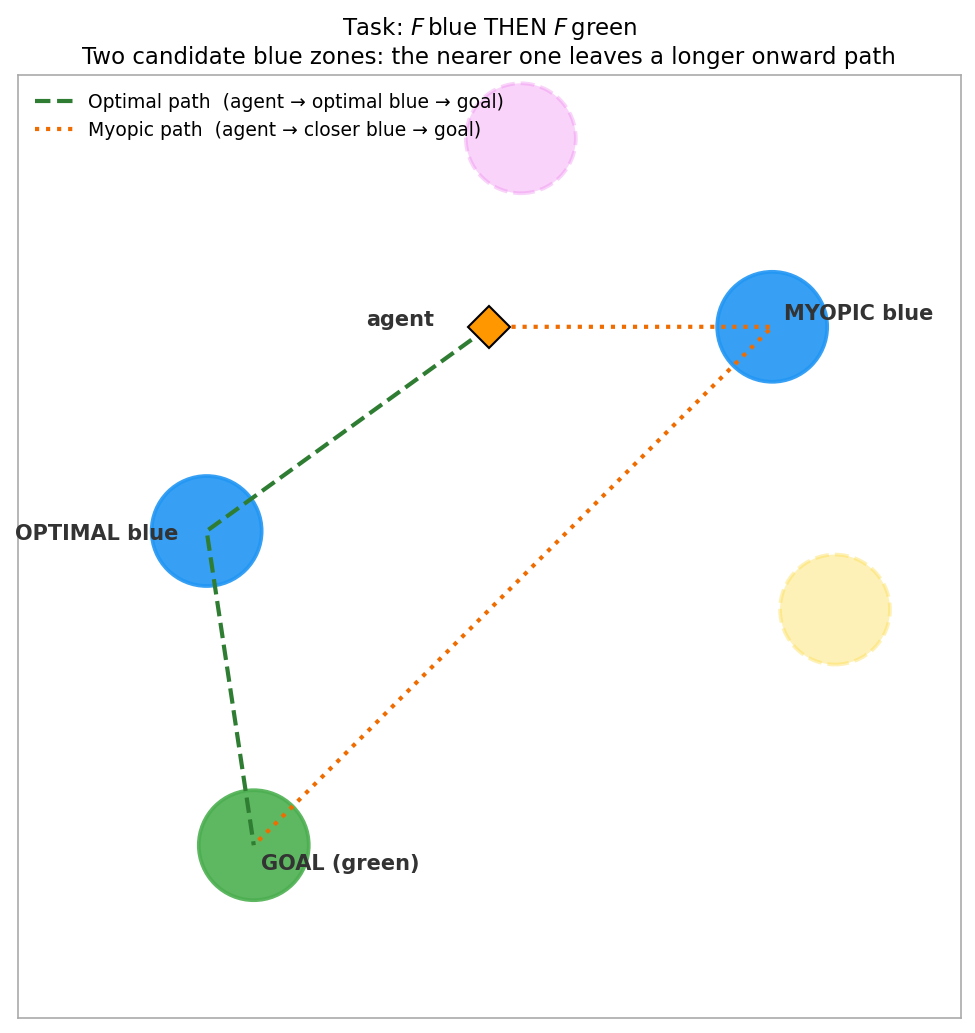
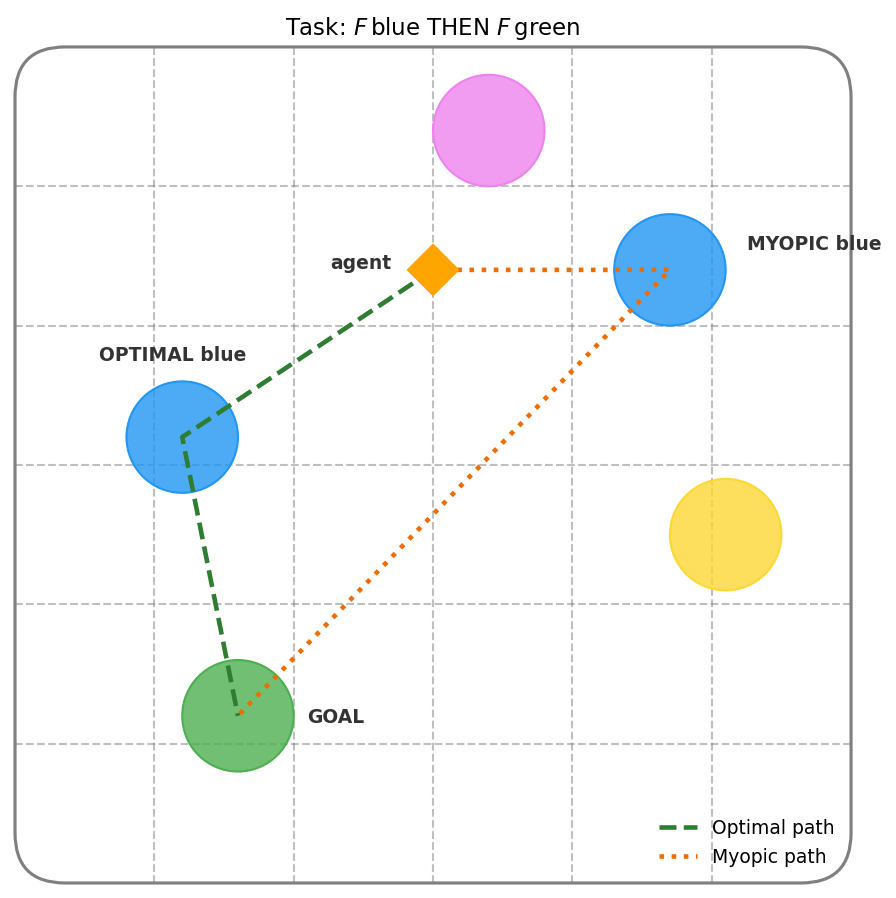
Figure pass: cleaner setup, no overlaps, fewer trajectory panels
- Architecture diagram (fig 00): redrawn with more headroom and
  non-overlapping IN/actor.enc labels.
- Setup figure (fig 01): switched to the repo's own zone-visualisation
  conventions (draw_zones, draw_diamond, setup_axis, FancyAxes), so it
  looks like it came from the same toolset as the trajectory panels in
  fig 02. Same dashed grid, same zone colour palette, same diamond
  marker for the agent.
- Trajectory figures (figs 02, 03): reduced from 4 rows × 5 cols (20
  panels) to 2 rows × 5 cols (10 panels). The argument is the same;
  the figures are easier to scan.
- Removed the now-unused figure_06_value_delta and
  figure_07_planning_incentives from generate_figures.py.

diff --git a/interpretability/blogpost/scripts/generate_figures.py b/interpretability/blogpost/scripts/generate_figures.py
@@ -39,169 +39,68 @@ def save(fig, name):
     print(f"wrote {path}")
 
 
-def figure_06_value_delta():
-    """Value function is blind to second-step difficulty when first is held fixed.
-
-    From LONG_REPORT §3.3 Test C (fresh_baseline):
-        mean ΔV (easy C)  = -0.1850
-        mean ΔV (hard C)  = -0.1875
-        difference         = 0.0026
-    """
-    labels = ["Easy second\nsub-goal", "Hard second\nsub-goal"]
-    delta_v = [-0.1850, -0.1875]
-
-    fig, ax = plt.subplots(figsize=(6, 4.5))
-    bars = ax.bar(labels, delta_v, color=[GREEN, RED],
-                  edgecolor="black", linewidth=0.6, width=0.55)
-    ax.axhline(0, color="black", linewidth=0.5)
-    ax.set_ylabel(r"$\Delta V = V(s, [A, C]) - V(s, [A])$")
-    ax.set_title("Marginal value of the second sub-goal, first step held constant\n"
-                 r"$\Delta V$(easy) $-$ $\Delta V$(hard) $= 0.003$, within noise")
-
-    for b, v in zip(bars, delta_v):
-        ax.text(b.get_x() + b.get_width() / 2, v - 0.006,
-                f"{v:.4f}", ha="center", va="top", fontweight="bold", color="white")
-
-    ax.set_ylim(-0.22, 0.02)
-    fig.tight_layout()
-    save(fig, "06_value_anticipation.png")
-    plt.close(fig)
-
-
-def figure_07_planning_incentives():
-    """Training interventions raise probe R² without changing behaviour.
-
-    From LONG_REPORT §4.2:
-        Optimal choice (controlled-orientation): all ~50%
-        Probe R² (chained distance): 0.315, 0.356, 0.361, 0.405
-        Task success: 93%, 90%, 89%, 75%
-    """
-    variants = ["Baseline", "Aux loss\n(0.2)", "Trans loss\n(0.1)", "Combined"]
-    optimal = [50, 50, 50, 50]
-    probe_r2 = [0.315, 0.356, 0.361, 0.405]
-    task_success = [93, 90, 89, 75]
-
-    fig, axes = plt.subplots(1, 3, figsize=(12.5, 4.2))
-
-    ax = axes[0]
-    bars = ax.bar(variants, optimal, color=RED, edgecolor="black", linewidth=0.6)
-    ax.axhline(50, color="gray", linestyle="--", linewidth=1, label="Chance")
-    ax.set_ylim(0, 100)
-    ax.set_ylabel("Optimal choice (%)")
-    ax.set_title("Planning behaviour\n(on optvar)")
-    ax.legend(loc="upper right", frameon=False)
-    for b, v in zip(bars, optimal):
-        ax.text(b.get_x() + b.get_width() / 2, v + 2, f"~{v}%",
-                ha="center", fontweight="bold")
-
-    ax = axes[1]
-    bars = ax.bar(variants, probe_r2, color=BLUE, edgecolor="black", linewidth=0.6)
-    ax.set_ylim(0, 0.5)
-    ax.set_ylabel(r"Chained-distance probe R$^2$")
-    ax.set_title("Representational content\n(intermediate → goal)")
-    for b, v in zip(bars, probe_r2):
-        ax.text(b.get_x() + b.get_width() / 2, v + 0.012, f"{v:.3f}",
-                ha="center", fontweight="bold")
-
-    ax = axes[2]
-    bars = ax.bar(variants, task_success, color=GREEN, edgecolor="black", linewidth=0.6)
-    ax.set_ylim(0, 105)
-    ax.set_ylabel("Task success (%)")
-    ax.set_title("Task completion")
-    for b, v in zip(bars, task_success):
-        ax.text(b.get_x() + b.get_width() / 2, v + 2, f"{v}%",
-                ha="center", fontweight="bold")
-
-    fig.suptitle("Auxiliary supervision improves the representation, "
-                 "not the behaviour",
-                 y=1.04, fontsize=13)
-    fig.tight_layout()
-    save(fig, "07_planning_incentives.png")
-    plt.close(fig)
-
-
 def figure_01_setup():
-    """Clean setup diagram for the intro.
+    """Setup diagram for §1, using the repo's own zone-visualisation conventions.
 
-    Shows the task `F blue THEN F green` with two candidate blue zones, one
-    myopic (closer to the agent) and one optimal (closer to the goal), plus
-    two distractor zones. Dashed lines indicate the paths a planning and a
-    myopic agent would each take. The figure does *not* claim the agent does
-    either — it illustrates the task structure.
+    Same `draw_zones` / `draw_diamond` / `setup_axis` / `FancyAxes` styling as
+    the optvar trajectory panels in figure 02, so the two figures look like
+    they came from the same set of tools.
     """
-    import matplotlib.patches as mpatches
+    import sys as _sys
+    _sys.path.insert(0, "src")
+    from matplotlib import projections
+    from visualize.zones import draw_zones, draw_diamond, setup_axis, FancyAxes
+    projections.register_projection(FancyAxes)
 
-    fig, ax = plt.subplots(figsize=(7, 7))
-
-    # Positions chosen so the two paths are visually distinct (not collinear)
+    # Positions in the same coord system as fig 02 (xlim/ylim = (-3, 3))
     agent = (0.0, 1.4)
-    myopic_blue = (1.8, 1.4)           # right of agent — very close
-    optimal_blue = (-1.8, 0.1)         # far left, mid — longer first leg
-    goal = (-1.5, -1.9)                # bottom left, close to optimal
-    distractor_yellow = (2.2, -0.4)
-    distractor_magenta = (0.2, 2.6)
+    myopic_blue = (1.7, 1.4)
+    optimal_blue = (-1.8, 0.2)
+    goal = (-1.4, -1.8)
+    distractor_yellow = (2.1, -0.5)
+    distractor_magenta = (0.4, 2.4)
 
-    zone_radius = 0.35
+    zones = {
+        "blue_myopic":     myopic_blue,
+        "blue_optimal":    optimal_blue,
+        "green_goal":      goal,
+        "yellow_distract": distractor_yellow,
+        "magenta_distract": distractor_magenta,
+    }
 
-    def zone(xy, colour, label=None, dashed=False, label_offset=(0, -0.6)):
-        circ = mpatches.Circle(xy, zone_radius,
-                               facecolor=colour,
-                               edgecolor=colour,
-                               alpha=0.35 if dashed else 0.9,
-                               linestyle="--" if dashed else "-",
-                               linewidth=1.8)
-        ax.add_patch(circ)
-        if label is not None:
-            ax.annotate(label,
-                        xy=(xy[0] + label_offset[0], xy[1] + label_offset[1]),
-                        ha="center", va="top",
-                        fontsize=10, fontweight="bold",
-                        color="#333")
+    fig = plt.figure(figsize=(6.2, 6.6))
+    ax = fig.add_subplot(1, 1, 1, projection="fancy_box_axes",
+                         edgecolor="gray", linewidth=0.5)
+    setup_axis(ax)
 
-    zone(distractor_yellow, ZONE_YELLOW, dashed=True)
-    zone(distractor_magenta, ZONE_MAGENTA, dashed=True)
+    draw_zones(ax, zones)
+    draw_diamond(ax, agent, color="orange")
 
-    zone(myopic_blue, ZONE_BLUE,
-         label="MYOPIC blue", label_offset=(0.55, 0.15))
-    zone(optimal_blue, ZONE_BLUE,
-         label="OPTIMAL blue", label_offset=(-0.7, 0.05))
-    zone(goal, ZONE_GREEN,
-         label="GOAL (green)", label_offset=(0.55, -0.05))
-
+    # Two annotated paths as polylines (not dashed grid lines, not the agent's
+    # actual trajectory — the figure illustrates *task structure*).
     ax.plot([agent[0], optimal_blue[0], goal[0]],
             [agent[1], optimal_blue[1], goal[1]],
-            linestyle="--", linewidth=2.0, color="#2e7d32",
-            label="Optimal path  (agent → optimal blue → goal)",
-            zorder=3)
+            linestyle="--", linewidth=2.2, color="#2e7d32",
+            label="Optimal path", zorder=3)
     ax.plot([agent[0], myopic_blue[0], goal[0]],
             [agent[1], myopic_blue[1], goal[1]],
-            linestyle=":", linewidth=2.0, color="#ef6c00",
-            label="Myopic path  (agent → closer blue → goal)",
-            zorder=3)
+            linestyle=":", linewidth=2.2, color="#ef6c00",
+            label="Myopic path", zorder=3)
 
-    ax.plot(*agent, marker="D", markersize=14,
-            markerfacecolor=AGENT, markeredgecolor="black", zorder=5)
-    ax.annotate("agent", xy=(agent[0] - 0.35, agent[1] + 0.05),
-                ha="right", va="center",
-                fontsize=10, fontweight="bold", color="#333")
+    # Light text labels next to relevant zones
+    ax.annotate("MYOPIC blue", xy=(myopic_blue[0] + 0.55, myopic_blue[1] + 0.15),
+                fontsize=9, fontweight="bold", color="#333")
+    ax.annotate("OPTIMAL blue", xy=(optimal_blue[0] - 0.6, optimal_blue[1] + 0.55),
+                fontsize=9, fontweight="bold", color="#333")
+    ax.annotate("GOAL", xy=(goal[0] + 0.5, goal[1] - 0.05),
+                fontsize=9, fontweight="bold", color="#333")
+    ax.annotate("agent", xy=(agent[0] - 0.3, agent[1] + 0.05),
+                ha="right", va="center", fontsize=9, fontweight="bold",
+                color="#333")
 
-    ax.set_xlim(-3, 3)
-    ax.set_ylim(-3, 3)
-    ax.set_aspect("equal")
-    ax.grid(True, linestyle=":", linewidth=0.5, alpha=0.6)
-    ax.set_xticks([])
-    ax.set_yticks([])
-    for spine in ax.spines.values():
-        spine.set_edgecolor("#aaa")
-        spine.set_linewidth(0.8)
-    ax.spines["top"].set_visible(True)
-    ax.spines["right"].set_visible(True)
-
-    ax.legend(loc="upper left", frameon=False, fontsize=9)
-    ax.set_title(r"Task: $F\,\mathrm{blue}$ THEN $F\,\mathrm{green}$"
-                 "\nTwo candidate blue zones: the nearer one leaves a longer onward path",
-                 fontsize=11)
-
+    ax.legend(loc="lower right", frameon=False, fontsize=9)
+    ax.set_title(r"Task: $F\,\mathrm{blue}$ THEN $F\,\mathrm{green}$",
+                 fontsize=11, pad=6)
     fig.tight_layout()
     save(fig, "01_setup_map.png")
     plt.close(fig)
@@ -209,5 +108,3 @@ def figure_01_setup():
 
 if __name__ == "__main__":
     figure_01_setup()
-    figure_06_value_delta()
-    figure_07_planning_incentives()

diff --git a/interpretability/blogpost/scripts/architecture_diagram.py b/interpretability/blogpost/scripts/architecture_diagram.py
@@ -41,9 +41,9 @@ def arrow(ax, x0, y0, x1, y1, text=None, text_offset=(0, 0.07), color="black",
 
 
 def main():
-    fig, ax = plt.subplots(figsize=(10, 4.4))
-    ax.set_xlim(0, 12)
-    ax.set_ylim(0, 5)
+    fig, ax = plt.subplots(figsize=(11, 5.2))
+    ax.set_xlim(0, 13)
+    ax.set_ylim(0, 6)
     ax.set_aspect("equal")
     ax.axis("off")
 
@@ -55,62 +55,53 @@ def main():
     OUT = "#f7d0d0"
     PLAN = "#e2d5f0"
 
-    # -- Top row: environment branch
-    box(ax, 0.2, 3.5, 1.6, 0.8, "lidar +\nproprio.\n(80-d)", INPUT)
-    box(ax, 2.4, 3.5, 1.4, 0.8, "env_net\n(MLP)", NET)
-    box(ax, 4.4, 3.5, 1.6, 0.8, "env_emb\n(64-d)", EMB)
-    arrow(ax, 1.8, 3.9, 2.4, 3.9)
-    arrow(ax, 3.8, 3.9, 4.4, 3.9)
+    # -- Top row: environment branch (y = 4.3)
+    y_env = 4.3
+    box(ax, 0.2, y_env, 1.6, 0.9, "lidar +\nproprio.\n(80-d)", INPUT)
+    box(ax, 2.4, y_env, 1.4, 0.9, "env_net\n(MLP)", NET)
+    box(ax, 4.4, y_env, 1.6, 0.9, "env_emb\n(64-d)", EMB)
+    arrow(ax, 1.8, y_env + 0.45, 2.4, y_env + 0.45)
+    arrow(ax, 3.8, y_env + 0.45, 4.4, y_env + 0.45)
 
-    # -- Bottom row: LTL branch
-    box(ax, 0.2, 1.7, 1.6, 0.8, "LTL formula\n→ automaton\nstates", INPUT)
-    box(ax, 2.4, 1.7, 1.4, 0.8, "LTL_net\n(DeepSets+GRU)", NET)
-    box(ax, 4.4, 1.7, 1.6, 0.8, "ltl_emb\n(32-d)", EMB)
-    arrow(ax, 1.8, 2.1, 2.4, 2.1)
-    arrow(ax, 3.8, 2.1, 4.4, 2.1)
+    # -- Bottom row: LTL branch (y = 1.5)
+    y_ltl = 1.5
+    box(ax, 0.2, y_ltl, 1.6, 0.9, "LTL formula\n→ automaton\nstates", INPUT)
+    box(ax, 2.4, y_ltl, 1.4, 0.9, "LTL_net\n(DeepSets+GRU)", NET)
+    box(ax, 4.4, y_ltl, 1.6, 0.9, "ltl_emb\n(32-d)", EMB)
+    arrow(ax, 1.8, y_ltl + 0.45, 2.4, y_ltl + 0.45)
+    arrow(ax, 3.8, y_ltl + 0.45, 4.4, y_ltl + 0.45)
 
-    # planner brief annotation
-    ax.text(3.1, 1.45, "(includes search over plans)",
-            ha="center", fontsize=8, color="#666", style="italic")
-
-    # -- Concat
-    box(ax, 6.4, 2.6, 1.4, 0.8, "concat\n(96-d)", PLAN)
-    arrow(ax, 6.0, 3.9, 6.4, 3.2, lw=0.9)
-    arrow(ax, 6.0, 2.1, 6.4, 2.85, lw=0.9)
+    # -- Concat (centred between rows)
+    y_mid = 2.95
+    box(ax, 6.5, y_mid, 1.4, 0.9, "concat\n(96-d)", PLAN)
+    arrow(ax, 6.0, y_env + 0.45, 6.5, y_mid + 0.7, lw=0.9)
+    arrow(ax, 6.0, y_ltl + 0.45, 6.5, y_mid + 0.2, lw=0.9)
 
     # -- Actor MLP H1, H2, H3
-    box(ax, 8.2, 2.6, 0.7, 0.8, "H1\n64", HID, text_fontsize=9)
-    box(ax, 9.0, 2.6, 0.7, 0.8, "H2\n64", HID, text_fontsize=9)
-    box(ax, 9.8, 2.6, 0.7, 0.8, "H3\n64", HID, text_fontsize=9)
-    arrow(ax, 7.8, 3.0, 8.2, 3.0, lw=0.9)
-    arrow(ax, 8.9, 3.0, 9.0, 3.0, lw=0.9)
-    arrow(ax, 9.7, 3.0, 9.8, 3.0, lw=0.9)
-    # bracket label "actor.enc"
-    ax.annotate("", xy=(8.2, 2.45), xytext=(10.5, 2.45),
-                arrowprops=dict(arrowstyle="-", lw=0.7, color="#666"))
-    ax.text(9.35, 2.25, "actor.enc (H1 → H2 → H3)",
-            ha="center", fontsize=8.5, color="#444", style="italic")
+    box(ax, 8.6, y_mid, 0.75, 0.9, "H1\n(64)", HID, text_fontsize=9)
+    box(ax, 9.45, y_mid, 0.75, 0.9, "H2\n(64)", HID, text_fontsize=9)
+    box(ax, 10.30, y_mid, 0.75, 0.9, "H3\n(64)", HID, text_fontsize=9)
+    arrow(ax, 7.9, y_mid + 0.45, 8.6, y_mid + 0.45, lw=0.9)
+    arrow(ax, 9.35, y_mid + 0.45, 9.45, y_mid + 0.45, lw=0.9)
+    arrow(ax, 10.20, y_mid + 0.45, 10.30, y_mid + 0.45, lw=0.9)
 
     # -- Output
-    box(ax, 10.8, 2.6, 1.0, 0.8, "μ (2-d)\naction", OUT, text_fontsize=9)
-    arrow(ax, 10.5, 3.0, 10.8, 3.0, lw=0.9)
+    box(ax, 11.4, y_mid, 1.1, 0.9, "μ (2-d)\naction", OUT, text_fontsize=9)
+    arrow(ax, 11.05, y_mid + 0.45, 11.4, y_mid + 0.45, lw=0.9)
 
-    # -- IN label
-    ax.annotate("", xy=(7.0, 2.45), xytext=(7.6, 2.45),
-                arrowprops=dict(arrowstyle="-", lw=0.7, color="#666"))
-    ax.text(7.3, 2.25, "IN", ha="center", fontsize=8.5, color="#444",
-            style="italic")
+    # -- "IN" label *above* concat→H1 arrow (no bracket, no overlap)
+    ax.text(8.25, y_mid + 0.62, "IN",
+            ha="center", fontsize=9, color="#444", style="italic")
 
-    # -- Title
-    ax.text(6.0, 4.7, "DeepLTL agent",
-            ha="center", fontsize=12, fontweight="bold")
+    # -- "actor.enc" label *below* the H1/H2/H3 boxes via a single bracket
+    ax.annotate("", xy=(8.6, y_mid - 0.12), xytext=(11.05, y_mid - 0.12),
+                arrowprops=dict(arrowstyle="-", lw=0.7, color="#888"))
+    ax.text(9.83, y_mid - 0.40, "actor.enc",
+            ha="center", fontsize=9, color="#444", style="italic")
 
-    # -- Footer note
-    ax.text(6.0, 0.85,
-            "The 'planner output' (`ltl_emb`) jumps at sub-goal switches; "
-            "the actor concatenates it with `env_emb` and unrolls a 3-layer MLP "
-            "to produce the action.",
-            ha="center", fontsize=9, color="#444", wrap=True)
+    # -- Title at top
+    ax.text(6.5, 5.55, "DeepLTL agent",
+            ha="center", fontsize=13, fontweight="bold")
 
     fig.tight_layout()
     out_path = os.path.join(FIG_DIR, "00_architecture.png")

diff --git a/interpretability/behavioural/opteq_test.py b/interpretability/behavioural/opteq_test.py
@@ -370,10 +370,10 @@ def main():
     projections.register_projection(FancyAxes)
 
     # Plot equidistant cases
-    n_show = min(20, len(equidistant_results))
+    n_show = min(10, len(equidistant_results))
     if n_show > 0:
         cols = 5
-        rows = (n_show + cols - 1) // cols
+        rows = 2
 
         fig = plt.figure(figsize=(4 * cols, 4.5 * rows))
 

diff --git a/interpretability/behavioural/optvar_test.py b/interpretability/behavioural/optvar_test.py
@@ -347,10 +347,10 @@ def main():
     projections.register_projection(FancyAxes)
 
     # Plot contested cases
-    n_show = min(20, len(contested_results))
+    n_show = min(10, len(contested_results))
     if n_show > 0:
         cols = 5
-        rows = (n_show + cols - 1) // cols
+        rows = 2
 
         fig = plt.figure(figsize=(4 * cols, 4 * rows))
 
